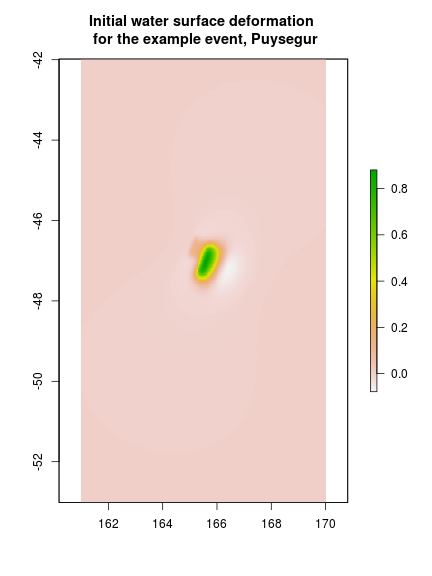
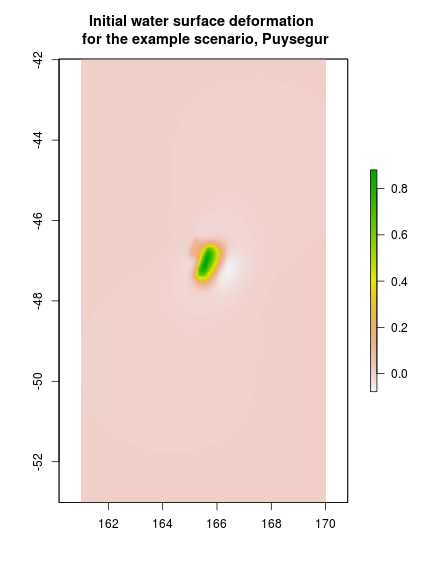
better doc

Changed region(s): [[0.1806, 0.0625, 0.7523, 0.0938]]

diff --git a/ptha_access/DETAILED_README.md b/ptha_access/DETAILED_README.md
@@ -208,7 +208,7 @@ approx(er_info$stage, er_info$variable_mu_stochastic_slip_rate_median, xout=0.4)
 ## [1] 0.00549242
 ```
 
-### ***Finding earthquake events within a particular wave-height range at a particular hazard point***
+### ***Finding earthquake scenarios within a particular wave-height range at a particular hazard point***
 
 FIXME: Discuss how to do this, and warn about the potential for bias.
 
@@ -676,7 +676,7 @@ choose this scenario because it produces a tsunami that is broadly similar to a
 real earthquake-tsunami that occurred in 2009-07-15 (based on observations at the
 nearby DART buoys).
 
-The metadata for event 1567 is:
+The metadata for scenario 1567 is:
 
 ```r
 row_index = 1567 # Use this variable to refer to event 1567
@@ -716,13 +716,13 @@ initial_condition = get_initial_condition_for_event(puysegur, row_index)
 # writeRaster(initial_conditions, 'my_output_filename.tif')
 
 # Make a plot
-plot(initial_condition, main='Initial water surface deformation \n for the example event, Puysegur')
+plot(initial_condition, main='Initial water surface deformation \n for the example scenario, Puysegur')
 ```
 
 ![plot of chunk raster_eventXXX](figure/raster_eventXXX-1.png)
 
 The function `get_initial_condition_for_event` used above will download the
-unit-source tsunami deformations included in the event and save them in the
+unit-source tsunami deformations included in the scenario and save them in the
 folder `SOURCE_ZONES/puysegur/EQ_SOURCE/Unit_source_data/puysegur`. Then it
 will sum them, scaled by the unit-source slip, to produce the initial
 condition. Next time you call the function, it will check whether the required
@@ -740,9 +740,9 @@ seen that).
 initial_condition = get_initial_condition_for_event(puysegur, row_index, force_file_download=TRUE)
 ```
 
-### ***Extracting the tsunami time-series for a particular event at a particular hazard point***
+### ***Extracting the tsunami time-series for a particular scenario at a particular hazard point***
 
-Here we show how to read a flow time-series for a given earthquake event, at a
+Here we show how to read a flow time-series for a given earthquake scenario, at a
 given hazard point. To do this, you have to know the hazard point `gaugeID`,
 which can be found by examining the maximum-stage vs exceedance-rate datasets (csv
 and shapefile), or by using the interactive hazard point viewer above. (***In the
@@ -800,7 +800,7 @@ points(model_ts$time, model_ts$flow[['55042.4']][1,,1], t='l',
     col='red')
 legend('topright', c('55015.4', '55042.4'), col=c('black', 'red'), lty=c(1,1))
 
-title('Stage time-series for the event at 2 gauges')
+title('Stage time-series for the scenario at 2 gauges')
 ```
 
 ![plot of chunk getflow](figure/getflow-1.png)

diff --git a/ptha_access/README.md b/ptha_access/README.md
@@ -141,7 +141,7 @@ For each hazard point we provide a standard pdf plot which shows:
 An example plot can be downloaded
 [here](http://dapds00.nci.org.au/thredds/fileServer/fj6/PTHA/AustPTHA_1/EVENT_RATES/station_summary_plots/example_plot.pdf).
 Because there are thousands of hazard points, the plots at other sites are provided in a set
-of zip folders. Each zip folder containing around 200 site in a particular longitude
+of zip folders. Each zip folder containing around 200 sites in a particular longitude
 range. The zip folders can be accessed 
 [here](http://dap.nci.org.au/thredds/remoteCatalogService?catalog=http://dapds00.nci.org.au/thredds/catalog/fj6/PTHA/AustPTHA_1/EVENT_RATES/station_summary_plots/catalog.xml).
 Follow the link to the http download to get the file. The zip folder names are
